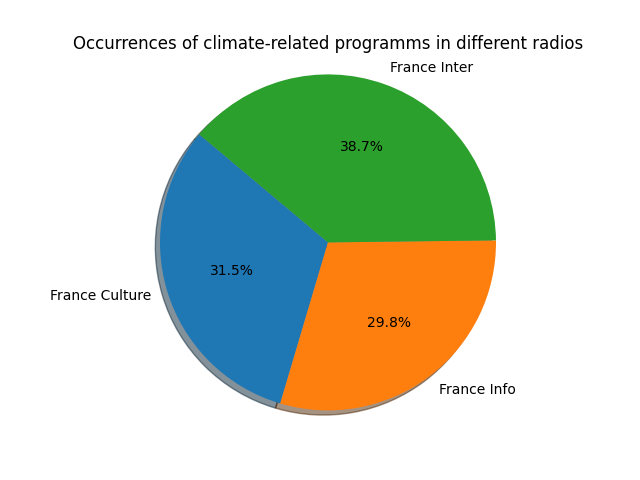
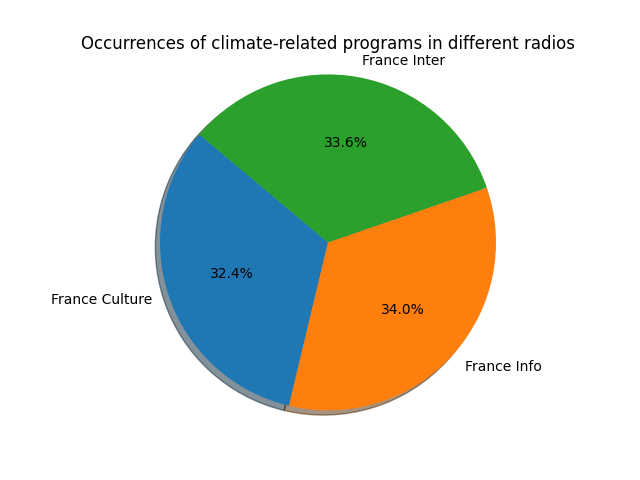
[CHANGE] Optimized functions & changed the way it worked to take any keywords

diff --git a/api.py b/api.py
@@ -1,27 +1,30 @@
+import argparse
 import pandas as pd
 import matplotlib.pyplot as plt
 
-def getOccurenceFranceCulture():
-    dataFranceCulture = pd.read_csv("./data/grid/franceculture.csv")
-    filteredDataFranceCulture = dataFranceCulture[dataFranceCulture["diffusion_standfirst"].str.contains("développement durable|réchauffement climatique|crise énergétique", case=False, na=False, regex=True)]
-    return len(filteredDataFranceCulture["diffusion_standfirst"])
-
-def getOccurenceFranceInfo():
-    dataFranceInfo = pd.read_csv("./data/grid/franceinfo.csv")
-    filteredDataFranceInfo = dataFranceInfo[dataFranceInfo["diffusion_standfirst"].str.contains("développement durable|réchauffement climatique|crise énergétique", case=False, na=False, regex=True)]
-    return len(filteredDataFranceInfo["diffusion_standfirst"])
-
-def getOccurenceFranceInter():
-    dataFranceInter = pd.read_csv("./data/grid/franceinter.csv")
-    filteredDataFranceInter = dataFranceInter[dataFranceInter["diffusion_standfirst"].str.contains("développement durable|réchauffement climatique|crise énergétique", case=False, na=False, regex=True)]
-    return len(filteredDataFranceInter["diffusion_standfirst"])
+def getOccurrence(data_file, keywords):
+    data = pd.read_csv(data_file)
+    filtered_data = data[data["diffusion_standfirst"].str.contains('|'.join(keywords), case=False, na=False, regex=True)]
+    return len(filtered_data["diffusion_standfirst"])
 
 def main():
-    labels = ['France Culture', 'France Info', 'France Inter']
-    sizes = [getOccurenceFranceCulture(), getOccurenceFranceInfo(), getOccurenceFranceInter()]
+    parser = argparse.ArgumentParser(description="Calculate and plot climate-related program occurrences in different radio stations.")
+    parser.add_argument("--keywords", nargs='+', help="List of keywords to search for in program descriptions", required=True)
+    args = parser.parse_args()
+    
+    radio_data = [
+        {"name": "France Culture", "file": "./data/grid/franceculture.csv"},
+        {"name": "France Info", "file": "./data/grid/franceinfo.csv"},
+        {"name": "France Inter", "file": "./data/grid/franceinter.csv"}
+    ]
+    keywords = args.keywords
+
+    labels = [radio["name"] for radio in radio_data]
+    sizes = [getOccurrence(radio["file"], keywords) for radio in radio_data]
+
     plt.pie(sizes, labels=labels, autopct='%1.1f%%', shadow=True, startangle=140)
     plt.axis('equal')
-    plt.title("Occurrences of climate-related programms in different radios")
+    plt.title("Occurrences of climate-related programs in different radios")
     plt.savefig('climate_occurrences.png')
     plt.close()
 
